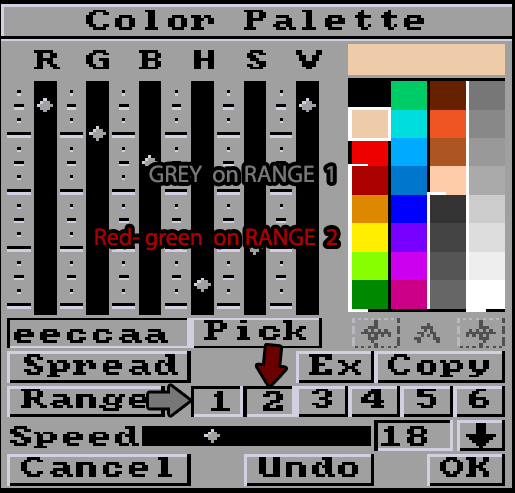
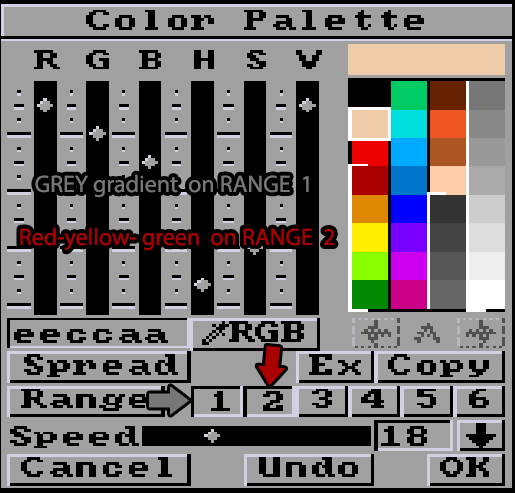
Palette doc updated
Updated pictures, and more illustrated.

Changed region(s): [[0.0621, 0.3043, 0.6524, 0.3955], [0.0311, 0.4564, 0.6835, 0.5172], [0.3728, 0.6389, 0.6524, 0.7911]]

diff --git a/docs/menus/src/palette.md b/docs/menus/src/palette.md
@@ -1,20 +1,22 @@
 # Color Palette
-
 ![Palette](palette.png)
 
-- [Overall principles](#overall-principles)
-- [RGB values](#rgb-values)
-- [HSV values](#hsv-values)
-- [Hex (web) values](#hex-web-values)
-- [Pick (color)](#pick-color)
-- [Palette index nav](#palette-index-navigation)
-- [Spread](#spread)
-- [Ex (Exchange)](#ex-exchange)
-- [Copy](#copy)
-- [Range](#range)
-- [1 to 6 range selector](#126-range-selector)
-- [Speed](#speed)
-- [Up/Down range](#updown-range)
+- [Color Palette](#color-palette)
+  - [Overall principles](#overall-principles)
+  - [RGB values](#rgb-values)
+  - [HSV values](#hsv-values)
+  - [Hex (web) values](#hex-web-values)
+  - [Pasting color values](#pasting-color-values)
+  - [RGB Pick](#rgb-pick)
+  - [Palette index navigation](#palette-index-navigation)
+  - [Spread](#spread)
+  - [Ex (Exchange)](#ex-exchange)
+  - [Copy](#copy)
+  - [Range](#range)
+  - [1,2,...6 range selector](#126-range-selector)
+  - [Speed](#speed)
+    - [Cycle speed preview](#cycle-speed-preview)
+  - [Up/Down range](#updown-range)
 
 ## Overall principles
 
@@ -45,15 +47,14 @@ RGB stands for "Red, Green, Blue". It's as if you had three magical friends who 
 ![](RGB-palette-3D.jpg)  
 *3D rendition of 3 color spots. Notice that pure blue looks darker than pure red or pure green.*
 
-PyDPainter's sliders represent the intensity of these three lights, from 0 at the bottom, to 16 at the top (4096 colors) or up to 256 in AGA (16M colors).
-
+**PyDPainter**'s sliders represent the intensity of these three lights, from 0 at the bottom, to 16 at the top (4096 colors) or up to 256 in AGA (16M colors).
 
 ## HSV values
-The H S V system is more intuitive for painters used to the color wheel.  
+The HSV system is more intuitive for painters used to the color wheel.  
 ![](HSV.PNG)  
 *H is the rainbow, S fades to white, then V darkens to black.*  
 
-`H` is the hue, i.e. the brightest color around the color wheel. It starts at the bottom from red to orange, yellow, green, blue, violet, and up to red again, including all the colors of the rainbow. `S` is saturation, the transition from pure color to white, via more subtle, desaturated colors. Finally, `V` is value, which darkens the color more and more until it reaches black. *Of course, nowadays software can display a nice color wheel, but in that era, the number of colors on screen was limited.*
+`H` is the **hue**, i.e. the brightest color around the color wheel. It starts at the bottom from red to orange, yellow, green, blue, violet, and up to red again, including all the colors of the rainbow. `S` is **saturation**, the transition from pure color to white, via more subtle, desaturated colors. Finally, `V` is **value**, which darkens the color more and more until it reaches black. *Of course, nowadays software can display a nice color wheel, but in that era, the number of colors on screen was limited.*
 
 ## Hex (web) values
 
@@ -62,23 +63,29 @@ Hexadecimal values are used in color coding for the web (html, CSS, etc.). It's 
 Each pair of numbers or letters represents a color component.
 
 For example, the hexadecimal code "#FF0000" represents the color red. "FF" means that the red component is at its maximum, and the other two components (green and blue) are at zero.
+
 ![](hex-colors.png)
 
 This field accepts direct typing of these values.
-
+![](hexfield.png)
 *If you want to see anytime the hexadecimal value of a color, simply stop the mouse on the color, and the #hex and RGB values will be displayed at the bottom of the yellow tooltip.*
 
+## Pasting color values
+PyDPainter 2.2.1 allows the clipboard paste to color palette. It works for hex numbers and ignores extra characters. It also works with 6 hex digits for 24 bit color (ex: #FFCC06 or FFCC06) or 3 hex digits for 12 bit color (ex: B81). See [this page](https://borderleft.com/toolbox/hex/) for visual reference. You don't have to be in the color text field for `CTRL-v` and `SHIFT-INSERT` to work.
 
-## Pick (color)
-`Pick` activates the color picker to fetch a color value from the screen into the current slot. When you click the `Pick` button, the cursor changes to a pipette. Move the cursor to the color you want to grab and click the left mouse button to pick the color under the pipette.  
-
+## RGB Pick
+![RGB](rgb-pick-button.png)
+This button, previously `Pick` in older version, activates the color picker to fetch a color value from the screen into the current slot. When you click it, the cursor changes to a pipette.
 ![](pick-cursor.png)
+Move the cursor to the color you want to grab and click the left mouse button to pick the color under the pipette.  
 
-*Tip: This only works in the PyDPainter canvas (not on the user interface). If you need to reproduce the colors of a reference photo, you can load it as a reference in the `Effect/Background/Open` menu, and `Color Pick` will allow you to build a palette from that picture.*
+![](new-pick-color.jpg)
+
+*Tip: This only works in the PyDPainter canvas (not on the user interface). It's designed to reproduce the colors of a reference photo. You can load it as a reference in the `Effect/Background/Open` menu, and `Color Pick` will allow you to build a palette from that picture.*
 
 ## Palette index navigation
 For screen formats greater than 32 colors, the arrows `<-A->`allow you to navigate through the other colors. To help you find your way around, the index displays a letter from `A` to `H` (8 pages for up to 256 colors).
-
+![palette nav](palette-nav-a.png)
 *Please note that you can use these arrows to fetch a color location in the middle of a gradient creation, swap or color copy operation.*
 
 ## Spread
@@ -92,6 +99,7 @@ The gradient is created, very "mathematically", by a uniform color transition.
 
 ## Ex (Exchange)
 Swap two color slots. Click on the first color, click on the `Ex` button, the mouse pointer changes to a red "to" arrow, then the second color. The exchange takes place instantly.
+![Ex button](ex-copy.png)
 
 *Tip: This is very useful for reorganizing a palette resulting from a picture import/conversion. The colors may all be there, but color gradients may not be arranged sequentually, making it impossible to use powerful PyDPainter [Modes](mode.md) and gradients.*
 
@@ -101,7 +109,7 @@ Copies a color to another location (**overwriting it**). Click on the color to b
 *Tip: You don't want to keep two copies of the same color and waste a slot unless you are using color cycling to animate something.*
 
 ## Range
-A `range` is a sequence of colors that allows you to use advanced drawing modes such as [Shade](mode.md#shade), [Cycle](#cycle), etc. and gradient fills. 
+A `range` is a sequence of colors that allows you to use advanced drawing modes such as [Shade](mode.md#shade), [Cycle](mode.md#cycle), etc. and **gradient fills**. 
 
 To define a range. *First order your colors by adjusting the sliders and using the Ex, Copy and Spread tools.* Select a range slot between `1` and `6` *(see below)*.  Click on the first color, then click on `Range`, and finally choose the last color you want in your selection (min 2). A kind of white bracket surrounds the colors of the range. Each time, the previous Range is replaced by this one. If you've made a mistake, just start again.
 
@@ -116,17 +124,18 @@ You have 6 ranges at your disposal. Click on the button to display the correspon
  
 ## Speed
 Sets the speed of color cycling within a `Range`. You can directly enter a numerical value or use the horizontal slider. 0 is no color cycle. Values between 1 and 60 are the number of color which changes per second. A value of 1 mean only one color of the range shifts per second. The higher the value, the faster the cycling.
-
+![cycle bar](cycle-bar.png)
 ### Cycle speed preview
 If you hold down the horizontal slider, a preview of all color cycles is displayed. 
 
-*Tip: To display this color cycle outside the Palette window, press the `TAB` key.*
+*Tip: To display this color cycle outside the Palette window, press the* `TAB` *key. Or use* `Picture/Change color/Cycle` *menu*
 
 ## Up/Down range
+![arrow](arrow.png)
 This arrow defines the direction of the color cycling, as well as the gradients of the selected range. Click to change direction.  
 
 ![](range-dir.png)
 
 *Tip: the up/down direction is symbolic; the gradient direction is defined in the gradient parameters of any `Fill Type`.*
 
-###### Documentation written by Stephane Anquetil
+Documentation written by Stephane Anquetil